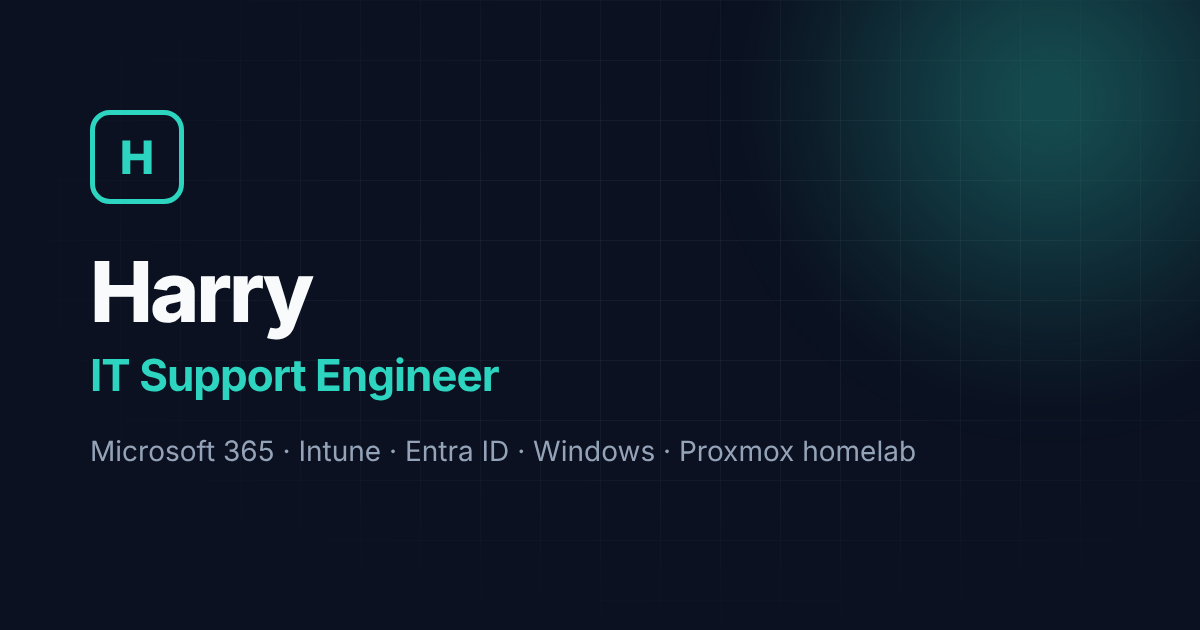
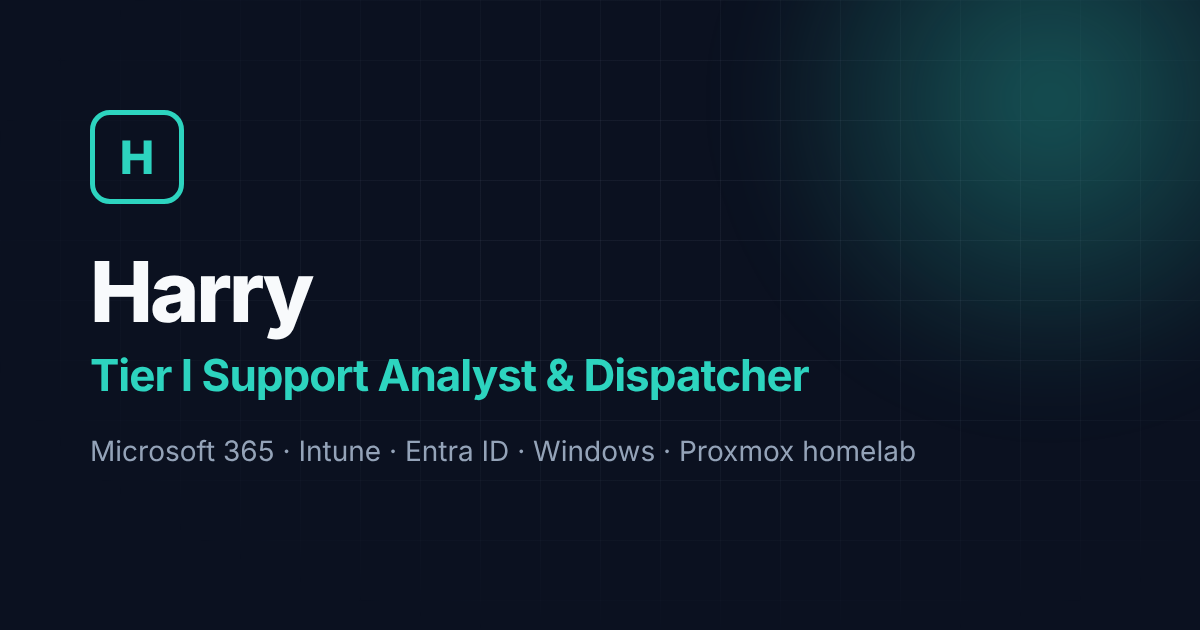
Update job title, company, dates and contact details
- Job title is now Tier I Support Analyst & Dispatcher everywhere
  (hero, typing effect, About, Experience, page titles, meta and
  Open Graph tags, link-preview image, README)
- Experience: Offsite Cloud, July 2024 – Present
- Add real LinkedIn URL to the Contact section and every footer
- Remove the email button and footer email link (LinkedIn only)

Claude-Session: https://claude.ai/code/session_01SzkUfvDWgdNpXBjg2cMGxM

Changed region(s): [[0.0617, 0.573, 0.6783, 0.6333]]

diff --git a/index.html b/index.html
@@ -9,27 +9,27 @@
        EDIT: if you use a custom domain, replace every
        "https://harrylyle07.github.io/Portfolio/" below with it.
        ========================================================= -->
-  <title>Harry | IT Support Engineer</title>
-  <meta name="description" content="Harry – IT Support Engineer at an Essex MSP with two years' hands-on experience in multi-tenant Microsoft 365, Intune, Entra ID and Windows support. Working towards 2nd line.">
+  <title>Harry | Tier I Support Analyst &amp; Dispatcher</title>
+  <meta name="description" content="Harry – Tier I Support Analyst &amp; Dispatcher at Offsite Cloud, an Essex MSP, with two years' hands-on experience in multi-tenant Microsoft 365, Intune, Entra ID and Windows support. Working towards 2nd line.">
   <meta name="author" content="Harry">
   <meta name="theme-color" content="#0b1120">
   <link rel="canonical" href="https://harrylyle07.github.io/Portfolio/">
 
   <!-- Open Graph (LinkedIn, Facebook, Slack, Teams, etc.) -->
   <meta property="og:type" content="website">
-  <meta property="og:site_name" content="Harry – IT Support Engineer">
-  <meta property="og:title" content="Harry | IT Support Engineer">
+  <meta property="og:site_name" content="Harry – Tier I Support Analyst &amp; Dispatcher">
+  <meta property="og:title" content="Harry | Tier I Support Analyst &amp; Dispatcher">
   <meta property="og:description" content="Two years' MSP experience across multiple Microsoft 365 tenants, Windows endpoints and a Proxmox homelab. Ready for 2nd line.">
   <meta property="og:url" content="https://harrylyle07.github.io/Portfolio/">
   <meta property="og:image" content="https://harrylyle07.github.io/Portfolio/assets/og-image.png">
   <meta property="og:image:width" content="1200">
   <meta property="og:image:height" content="630">
-  <meta property="og:image:alt" content="Harry – IT Support Engineer portfolio">
+  <meta property="og:image:alt" content="Harry – Tier I Support Analyst &amp; Dispatcher portfolio">
   <meta property="og:locale" content="en_GB">
 
   <!-- Twitter / X -->
   <meta name="twitter:card" content="summary_large_image">
-  <meta name="twitter:title" content="Harry | IT Support Engineer">
+  <meta name="twitter:title" content="Harry | Tier I Support Analyst &amp; Dispatcher">
   <meta name="twitter:description" content="Two years' MSP experience across multiple Microsoft 365 tenants, Windows endpoints and a Proxmox homelab. Ready for 2nd line.">
   <meta name="twitter:image" content="https://harrylyle07.github.io/Portfolio/assets/og-image.png">
 
@@ -117,13 +117,13 @@
         <h1 class="hero-title reveal" id="hero-title">
           <span class="hero-hello">Hi, I'm Harry.</span>
           <span class="typed-wrap accent-text">
-            <span class="visually-hidden">IT Support Engineer</span>
+            <span class="visually-hidden">Tier I Support Analyst &amp; Dispatcher</span>
             <span class="typed-sizer" aria-hidden="true">
-              <span>IT Support Engineer</span>
+              <span>Tier I Support Analyst &amp; Dispatcher</span>
               <span>Microsoft 365 Administrator</span>
               <span>Homelab Enthusiast</span>
             </span>
-            <span class="typed-line" aria-hidden="true"><span class="typed" data-phrases='["IT Support Engineer", "Microsoft 365 Administrator", "Homelab Enthusiast"]'>IT Support Engineer</span><span class="typed-caret"></span></span>
+            <span class="typed-line" aria-hidden="true"><span class="typed" data-phrases='["Tier I Support Analyst &amp; Dispatcher", "Microsoft 365 Administrator", "Homelab Enthusiast"]'>Tier I Support Analyst &amp; Dispatcher</span><span class="typed-caret"></span></span>
           </span>
         </h1>
         <p class="hero-pitch reveal">
@@ -194,7 +194,7 @@
         <div class="about-grid about-grid-single">
           <div class="about-text reveal">
             <p>
-              I'm an IT Support Engineer at a managed service provider in Essex, where I've spent
+              I'm a Tier I Support Analyst &amp; Dispatcher at Offsite Cloud, a managed service provider in Essex, where I've spent
               the last two years supporting a range of client businesses. Day to day I administer
               Microsoft&nbsp;365 across multiple tenants (Exchange Online, Entra&nbsp;ID, Intune and
               SharePoint), troubleshoot Windows endpoints, and handle tickets from first contact
@@ -372,14 +372,13 @@
         </header>
 
         <ol class="timeline">
-          <!-- Timeline entry: current role
-               EDIT: replace [Company name] and [Month Year] -->
+          <!-- Timeline entry: current role -->
           <li class="timeline-item reveal">
             <span class="timeline-dot" aria-hidden="true"></span>
             <div class="card timeline-card">
-              <p class="timeline-date"><span class="ph">[Month Year]</span> – Present · 2 years</p>
-              <h3>IT Support Engineer</h3>
-              <p class="timeline-org"><span class="ph">[Company name]</span> · Managed service provider, Essex</p>
+              <p class="timeline-date">July 2024 – Present</p>
+              <h3>Tier I Support Analyst &amp; Dispatcher</h3>
+              <p class="timeline-org">Offsite Cloud · Managed service provider, Essex</p>
               <ul class="timeline-points">
                 <li>Support multiple client tenants with Microsoft&nbsp;365 administration across Exchange Online, Entra&nbsp;ID, Intune and SharePoint.</li>
                 <li>Troubleshoot Windows 10/11 endpoint issues for end users across different client environments.</li>
@@ -452,22 +451,18 @@
 
     <!-- =========================================================
          7. CONTACT
-         EDIT: replace the email address and LinkedIn URL
+         Contact is via LinkedIn only (no email, phone or form).
          ========================================================= -->
     <section class="section section-alt" id="contact" aria-labelledby="contact-title">
       <div class="container">
         <div class="contact-card card reveal">
           <p class="eyebrow">06 / Contact</p>
           <h2 class="section-title" id="contact-title">Let's talk</h2>
-          <p class="section-intro">I'm looking for my next step into 2nd line support. If you have a role in mind or just want to connect, get in touch.</p>
+          <p class="section-intro">I'm looking for my next step into 2nd line support. If you have a role in mind or just want to connect, message me on LinkedIn.</p>
           <div class="contact-actions">
-            <a class="btn btn-primary" href="mailto:your.email@example.com">
-              <svg viewBox="0 0 24 24" aria-hidden="true"><rect x="2" y="4" width="20" height="16" rx="2"/><path d="m22 6-10 7L2 6"/></svg>
-              Email me
-            </a>
-            <a class="btn btn-ghost" href="https://www.linkedin.com/in/your-profile" target="_blank" rel="noopener noreferrer">
+            <a class="btn btn-primary" href="https://www.linkedin.com/in/harry-lyle-868854328/" target="_blank" rel="noopener noreferrer">
               <svg viewBox="0 0 24 24" aria-hidden="true"><rect x="2" y="2" width="20" height="20" rx="3"/><path d="M7 10v7M7 7h.01M11 17v-4a2 2 0 0 1 4 0v4M11 10v7"/></svg>
-              LinkedIn<span class="visually-hidden"> (opens in a new tab)</span>
+              Message me on LinkedIn<span class="visually-hidden"> (opens in a new tab)</span>
             </a>
           </div>
         </div>
@@ -483,8 +478,7 @@
       <p>&copy; <span data-year>2026</span> Harry. Built with plain HTML, CSS &amp; JavaScript.</p>
       <ul class="footer-links">
         <li><a href="https://github.com/harrylyle07" target="_blank" rel="noopener noreferrer">GitHub<span class="visually-hidden"> (opens in a new tab)</span></a></li>
-        <li><a href="https://www.linkedin.com/in/your-profile" target="_blank" rel="noopener noreferrer">LinkedIn<span class="visually-hidden"> (opens in a new tab)</span></a></li>
-        <li><a href="mailto:your.email@example.com">Email</a></li>
+        <li><a href="https://www.linkedin.com/in/harry-lyle-868854328/" target="_blank" rel="noopener noreferrer">LinkedIn<span class="visually-hidden"> (opens in a new tab)</span></a></li>
         <li><a href="#hero">Back to top &uarr;</a></li>
       </ul>
     </div>

diff --git a/projects/_template.html b/projects/_template.html
@@ -13,14 +13,14 @@
          4. Add a card for it in the Projects section of index.html
        Delete any section you don't need.
        ========================================================= -->
-  <title>Project title | Harry – IT Support Engineer</title>
+  <title>Project title | Harry – Tier I Support Analyst &amp; Dispatcher</title>
   <meta name="description" content="One-sentence summary of this project.">
   <meta name="author" content="Harry">
   <meta name="theme-color" content="#0b1120">
   <meta name="robots" content="noindex"> <!-- Template only: delete this line in your copy -->
 
   <meta property="og:type" content="article">
-  <meta property="og:title" content="Project title | Harry – IT Support Engineer">
+  <meta property="og:title" content="Project title | Harry – Tier I Support Analyst &amp; Dispatcher">
   <meta property="og:description" content="One-sentence summary of this project.">
   <meta property="og:url" content="https://harrylyle07.github.io/Portfolio/projects/FILE-NAME.html">
   <meta property="og:image" content="https://harrylyle07.github.io/Portfolio/assets/og-image.png">
@@ -148,7 +148,7 @@ Get-Mailbox -ResultSize Unlimited | Select-Object DisplayName, PrimarySmtpAddres
       <ul class="footer-links">
         <li><a href="../index.html">Home</a></li>
         <li><a href="https://github.com/harrylyle07" target="_blank" rel="noopener noreferrer">GitHub<span class="visually-hidden"> (opens in a new tab)</span></a></li>
-        <li><a href="https://www.linkedin.com/in/your-profile" target="_blank" rel="noopener noreferrer">LinkedIn<span class="visually-hidden"> (opens in a new tab)</span></a></li>
+        <li><a href="https://www.linkedin.com/in/harry-lyle-868854328/" target="_blank" rel="noopener noreferrer">LinkedIn<span class="visually-hidden"> (opens in a new tab)</span></a></li>
       </ul>
     </div>
   </footer>

diff --git a/projects/troubleshooting-case-study.html b/projects/troubleshooting-case-study.html
@@ -5,13 +5,13 @@
   <meta name="viewport" content="width=device-width, initial-scale=1">
 
   <!-- Project write-up: based on projects/_template.html -->
-  <title>[Troubleshooting case study title] | Harry – IT Support Engineer</title>
+  <title>[Troubleshooting case study title] | Harry – Tier I Support Analyst &amp; Dispatcher</title>
   <meta name="description" content="Placeholder troubleshooting case study: symptoms, diagnosis, root cause and fix.">
   <meta name="author" content="Harry">
   <meta name="theme-color" content="#0b1120">
 
   <meta property="og:type" content="article">
-  <meta property="og:title" content="[Troubleshooting case study title] | Harry – IT Support Engineer">
+  <meta property="og:title" content="[Troubleshooting case study title] | Harry – Tier I Support Analyst &amp; Dispatcher">
   <meta property="og:description" content="Placeholder troubleshooting case study: symptoms, diagnosis, root cause and fix.">
   <meta property="og:url" content="https://harrylyle07.github.io/Portfolio/projects/troubleshooting-case-study.html">
   <meta property="og:image" content="https://harrylyle07.github.io/Portfolio/assets/og-image.png">
@@ -121,7 +121,7 @@
       <ul class="footer-links">
         <li><a href="../index.html">Home</a></li>
         <li><a href="https://github.com/harrylyle07" target="_blank" rel="noopener noreferrer">GitHub<span class="visually-hidden"> (opens in a new tab)</span></a></li>
-        <li><a href="https://www.linkedin.com/in/your-profile" target="_blank" rel="noopener noreferrer">LinkedIn<span class="visually-hidden"> (opens in a new tab)</span></a></li>
+        <li><a href="https://www.linkedin.com/in/harry-lyle-868854328/" target="_blank" rel="noopener noreferrer">LinkedIn<span class="visually-hidden"> (opens in a new tab)</span></a></li>
       </ul>
     </div>
   </footer>

diff --git a/projects/proxmox-homelab.html b/projects/proxmox-homelab.html
@@ -5,13 +5,13 @@
   <meta name="viewport" content="width=device-width, initial-scale=1">
 
   <!-- Project write-up: based on projects/_template.html -->
-  <title>Proxmox homelab build | Harry – IT Support Engineer</title>
+  <title>Proxmox homelab build | Harry – Tier I Support Analyst &amp; Dispatcher</title>
   <meta name="description" content="How I built and use a Proxmox VE homelab to learn virtualisation, networking and self-hosting.">
   <meta name="author" content="Harry">
   <meta name="theme-color" content="#0b1120">
 
   <meta property="og:type" content="article">
-  <meta property="og:title" content="Proxmox homelab build | Harry – IT Support Engineer">
+  <meta property="og:title" content="Proxmox homelab build | Harry – Tier I Support Analyst &amp; Dispatcher">
   <meta property="og:description" content="How I built and use a Proxmox VE homelab to learn virtualisation, networking and self-hosting.">
   <meta property="og:url" content="https://harrylyle07.github.io/Portfolio/projects/proxmox-homelab.html">
   <meta property="og:image" content="https://harrylyle07.github.io/Portfolio/assets/og-image.png">
@@ -140,7 +140,7 @@
       <ul class="footer-links">
         <li><a href="../index.html">Home</a></li>
         <li><a href="https://github.com/harrylyle07" target="_blank" rel="noopener noreferrer">GitHub<span class="visually-hidden"> (opens in a new tab)</span></a></li>
-        <li><a href="https://www.linkedin.com/in/your-profile" target="_blank" rel="noopener noreferrer">LinkedIn<span class="visually-hidden"> (opens in a new tab)</span></a></li>
+        <li><a href="https://www.linkedin.com/in/harry-lyle-868854328/" target="_blank" rel="noopener noreferrer">LinkedIn<span class="visually-hidden"> (opens in a new tab)</span></a></li>
       </ul>
     </div>
   </footer>

diff --git a/projects/m365-intune-project.html b/projects/m365-intune-project.html
@@ -5,13 +5,13 @@
   <meta name="viewport" content="width=device-width, initial-scale=1">
 
   <!-- Project write-up: based on projects/_template.html -->
-  <title>[M365 / Intune project title] | Harry – IT Support Engineer</title>
+  <title>[M365 / Intune project title] | Harry – Tier I Support Analyst &amp; Dispatcher</title>
   <meta name="description" content="Placeholder write-up for a Microsoft 365 / Intune project.">
   <meta name="author" content="Harry">
   <meta name="theme-color" content="#0b1120">
 
   <meta property="og:type" content="article">
-  <meta property="og:title" content="[M365 / Intune project title] | Harry – IT Support Engineer">
+  <meta property="og:title" content="[M365 / Intune project title] | Harry – Tier I Support Analyst &amp; Dispatcher">
   <meta property="og:description" content="Placeholder write-up for a Microsoft 365 / Intune project.">
   <meta property="og:url" content="https://harrylyle07.github.io/Portfolio/projects/m365-intune-project.html">
   <meta property="og:image" content="https://harrylyle07.github.io/Portfolio/assets/og-image.png">
@@ -123,7 +123,7 @@
       <ul class="footer-links">
         <li><a href="../index.html">Home</a></li>
         <li><a href="https://github.com/harrylyle07" target="_blank" rel="noopener noreferrer">GitHub<span class="visually-hidden"> (opens in a new tab)</span></a></li>
-        <li><a href="https://www.linkedin.com/in/your-profile" target="_blank" rel="noopener noreferrer">LinkedIn<span class="visually-hidden"> (opens in a new tab)</span></a></li>
+        <li><a href="https://www.linkedin.com/in/harry-lyle-868854328/" target="_blank" rel="noopener noreferrer">LinkedIn<span class="visually-hidden"> (opens in a new tab)</span></a></li>
       </ul>
     </div>
   </footer>

diff --git a/README.md b/README.md
@@ -1,4 +1,4 @@
-# Harry – IT Support Engineer Portfolio
+# Harry – Tier I Support Analyst & Dispatcher Portfolio
 
 A single-page personal portfolio built with plain **HTML, CSS and vanilla JavaScript**. There are no frameworks, no build step and no dependencies, so it runs on GitHub Pages as-is.
 
@@ -29,7 +29,7 @@ A single-page personal portfolio built with plain **HTML, CSS and vanilla JavaSc
 
 - **Placeholders** are written in square brackets, e.g. `[Company name]`. Most are wrapped in `<span class="ph">…</span>`, which shows them **highlighted in amber** on the page so you can't miss any. Once you've replaced the text, remove the `<span class="ph">` wrapper too.
 - Search the code for `EDIT:` to find every comment that marks something to change.
-- Search for `your.email@example.com` and `your-profile` to find the contact links (they appear in the Contact section and the footer of every page).
+- Contact is via LinkedIn only. To change the LinkedIn URL, search for `linkedin.com/in/` (it appears in the Contact section and the footer of every page).
 
 ## Editing each section (`index.html`)
 
@@ -45,7 +45,7 @@ Each section is wrapped in a big comment banner such as `<!-- 3. SKILLS -->`.
 | **4. Projects** | One `<article class="card project-card">` per project (see *Adding a new project* below). Remove the `<span class="badge-placeholder">Placeholder</span>` once a card is real. |
 | **5. Experience** | One `<li class="timeline-item">` per entry, newest first. Fill in company name, dates and training provider. |
 | **6. Certifications** | One `<article class="card cert-card">` per cert. Add your Credly link where marked. To use your real Credly badge image, replace the `<div class="cert-badge">…</div>` with `<img src="assets/your-badge.png" alt="Microsoft 365 Certified: Fundamentals badge" width="72" height="72">`. The dashed **In progress** card is for your next cert. |
-| **7. Contact** | Email address (`mailto:`) and LinkedIn URL. |
+| **7. Contact** | LinkedIn button (contact is LinkedIn only: no email, phone or form). |
 | **8. Footer** | Links. The year updates automatically. |
 
 ### Changing colours
